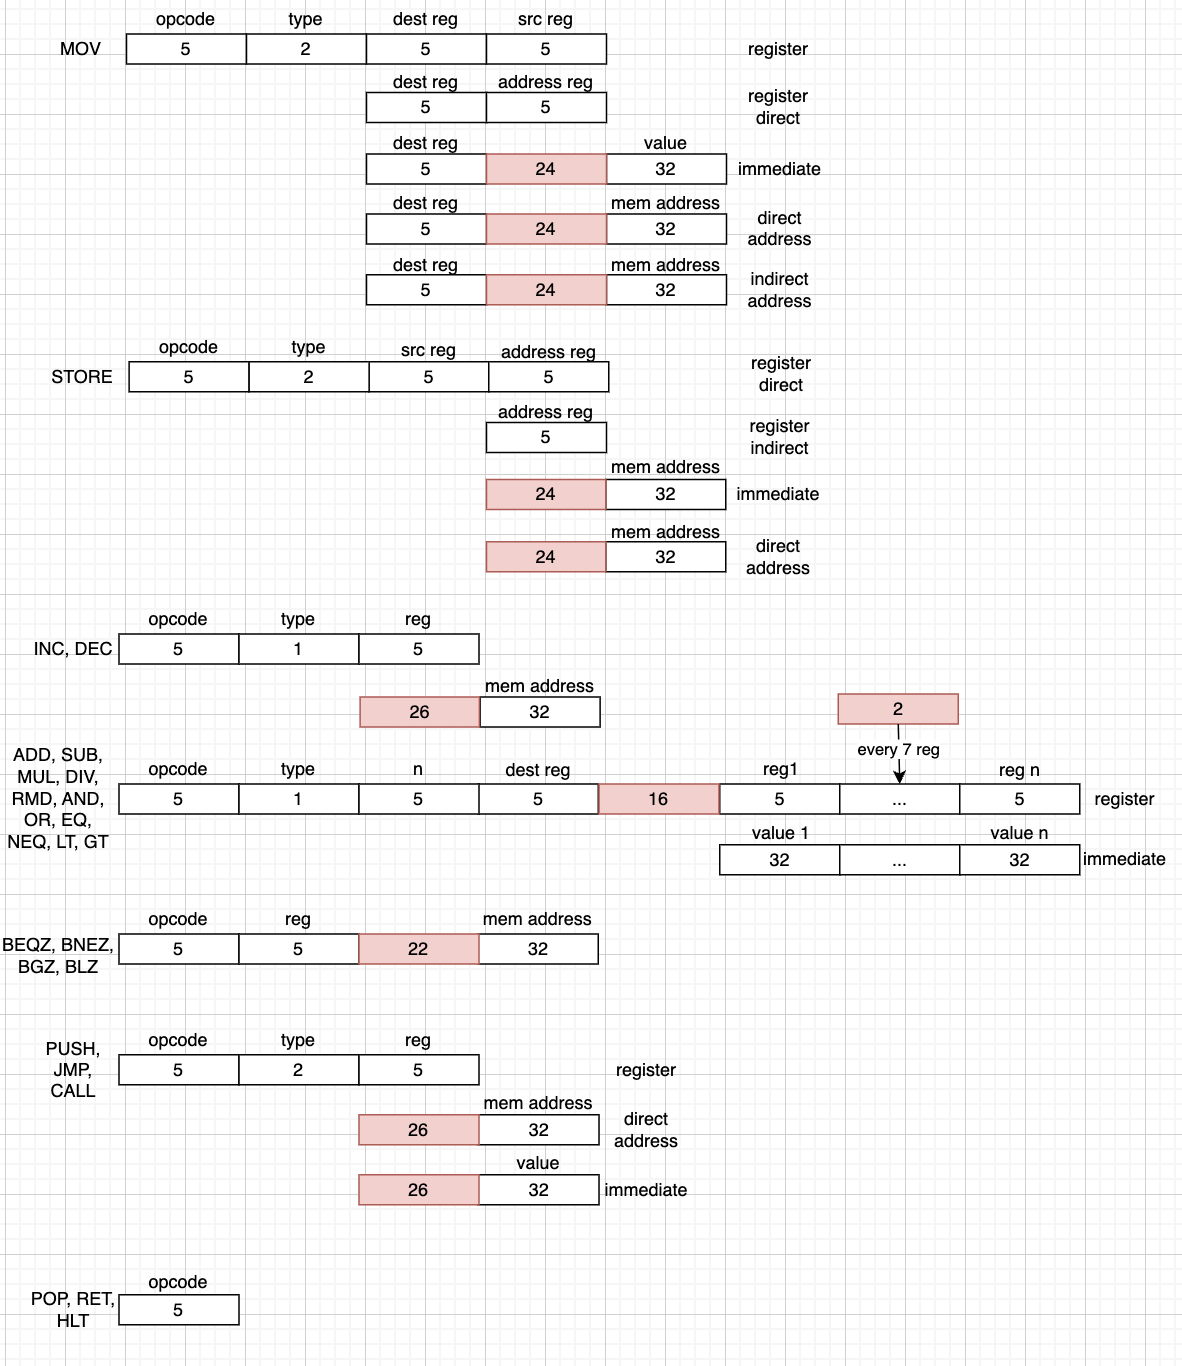
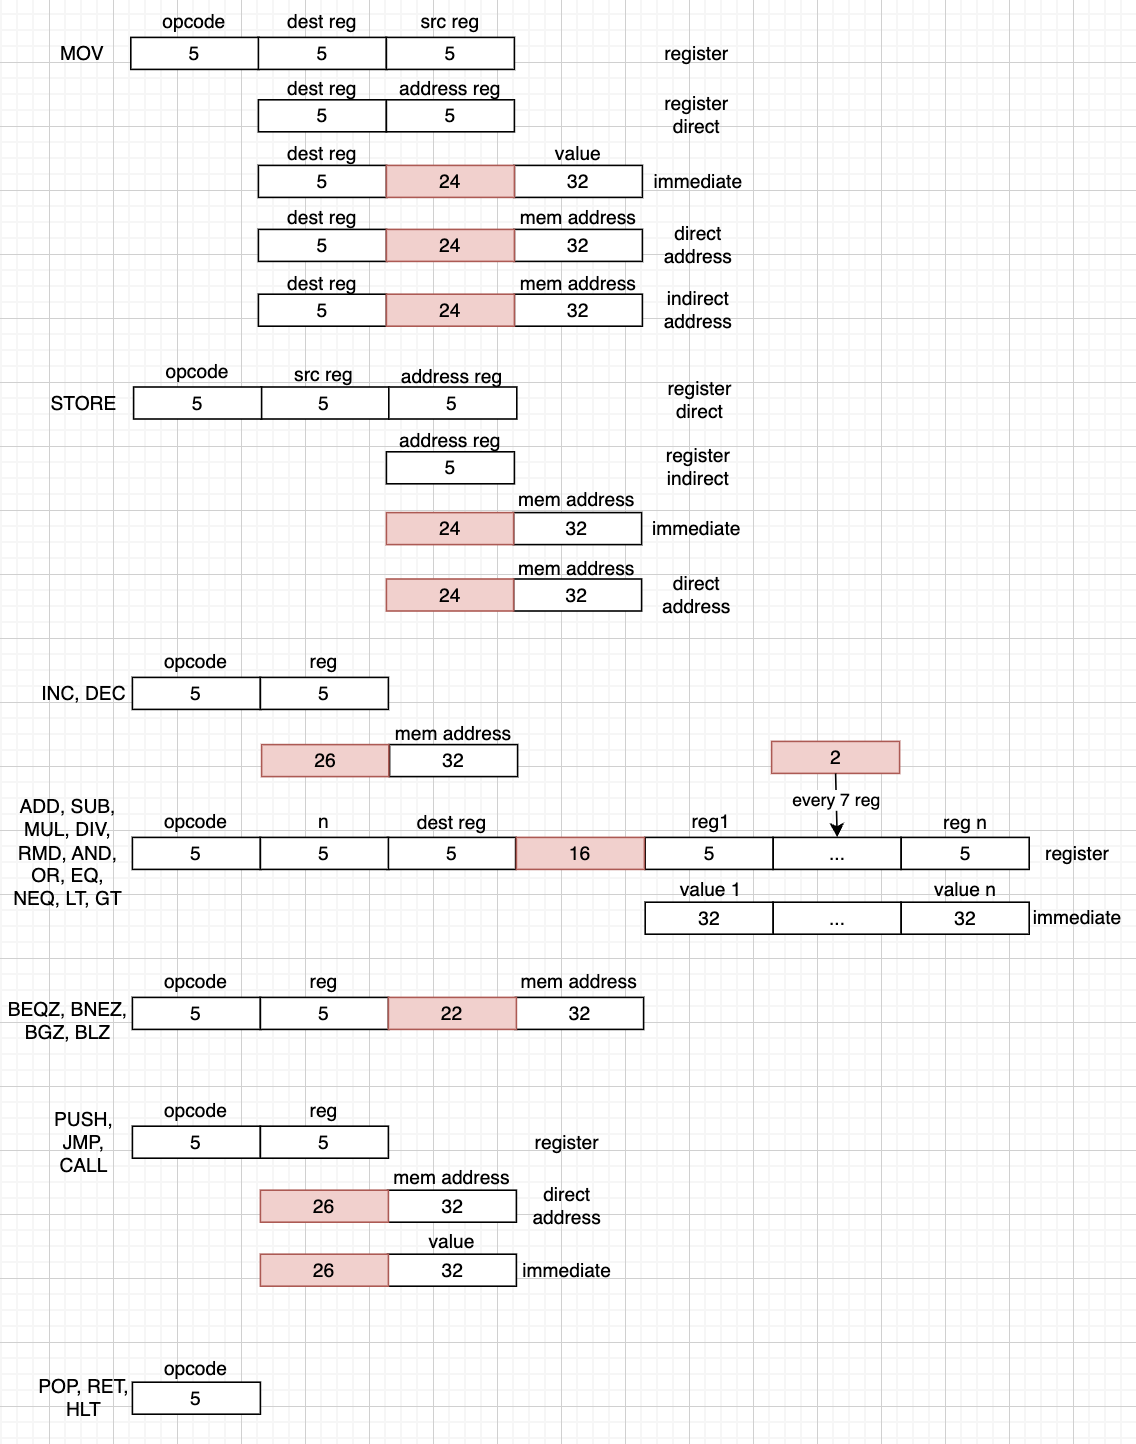
remove type

diff --git a/machine.py b/machine.py
@@ -43,8 +43,7 @@ class Sel:
     class MProgramCounter(Enum):
         OPCODE : int = 0
         ZERO : int = 1
-        TYPE : int = 2
-        N : int = 3
+        N : int = 2
         PLUS_1 : int = 4
     class LeftALU(Enum):
         REGISTER : int = 0
@@ -223,7 +222,6 @@ class ControlUnit:
             Signal.LATCH_MEMORY : self.datapath.latch_memory,
         }
 
-        # TODO remove TYPE, just use opcode for addressing
         self.mprogram : list[tuple[Signal, Sel]] = [
                 # instruction fetch (0)
                 (Signal.LATCH_ADDRESS_REGISTER, Sel.AddressRegister.CONTROL_UNIT),
@@ -232,7 +230,6 @@ class ControlUnit:
                 (Signal.LATCH_MPROGRAM_COUNTER, Sel.MProgramCounter.OPCODE),
 
                 # MOV register (4)(0)
-                (Signal.LATCH_MPROGRAM_COUNTER, Sel.MProgramCounter.TYPE), # jmp to type
                 (Signal.LATCH_LEFT_ALU, Sel.LeftALU.REGISTER), # src register
                 (Signal.LATCH_RIGHT_ALU, Sel.RightALU.ZERO),
                 (Signal.EXECUTE_ALU, ALU.Operations.ADD),
@@ -300,7 +297,6 @@ class ControlUnit:
                 (Signal.LATCH_MPROGRAM_COUNTER, Sel.MProgramCounter.ZERO),
 
                 # INC register (59)(0)
-                (Signal.LATCH_MPROGRAM_COUNTER, Sel.MProgramCounter.TYPE), # jmp to type
                 (Signal.LATCH_LEFT_ALU, Sel.LeftALU.REGISTER), # src register
                 (Signal.LATCH_RIGHT_ALU, Sel.RightALU.PLUS_1),
                 (Signal.EXECUTE_ALU, ALU.Operations.ADD),
@@ -321,7 +317,6 @@ class ControlUnit:
                 (Signal.LATCH_MPROGRAM_COUNTER, Sel.MProgramCounter.ZERO),
 
                 # DEC register (76)(0)
-                (Signal.LATCH_MPROGRAM_COUNTER, Sel.MProgramCounter.TYPE), # jmp to type
                 (Signal.LATCH_LEFT_ALU, Sel.LeftALU.REGISTER), # src register
                 (Signal.LATCH_RIGHT_ALU, Sel.RightALU.MINUS_1),
                 (Signal.EXECUTE_ALU, ALU.Operations.ADD),
@@ -342,8 +337,6 @@ class ControlUnit:
                 (Signal.LATCH_MPROGRAM_COUNTER, Sel.MProgramCounter.ZERO),
 
                 # STORE reg direct (103)(0)
-                (Signal.LATCH_MPROGRAM_COUNTER, Sel.MProgramCounter.TYPE), # jmp to type
-
                 (Signal.LATCH_RIGHT_ALU, Sel.RightALU.REGISTER), # src register
                 (Signal.LATCH_LEFT_ALU, Sel.LeftALU.ZERO),
                 (Signal.EXECUTE_ALU, ALU.Operations.ADD), 
@@ -420,8 +413,7 @@ class ControlUnit:
                 (Signal.LATCH_MPROGRAM_COUNTER, Sel.MProgramCounter.ZERO),
 
                 # ADD reg ()()
-                (Signal.LATCH_MPROGRAM_COUNTER, Sel.MProgramCounter.TYPE), # jmp to type
-                
+
 
                 # ADD mem ()()
                 (Signal.LATCH_PROGRAM_COUNTER, Sel.ProgramCounter.NEXT),
@@ -439,42 +431,58 @@ class ControlUnit:
         ]
 
     def decode(self, instruction: Instruction):
-        ALU_operations = (Opcode.ADD, Opcode.SUB, Opcode.MUL,
-              Opcode.DIV, Opcode.RMD, Opcode.AND,
-              Opcode.OR, Opcode.EQ, Opcode.NEQ,
-              Opcode.LT, Opcode.GT)
+        ALU_reg_operations = (Opcode.ADD_r, Opcode.SUB_r,
+                              Opcode.MUL_r, Opcode.DIV_r,
+                              Opcode.RMD_r, Opcode.AND_r,
+                              Opcode.OR_r, Opcode.EQ_r,
+                              Opcode.NEQ_r, Opcode.LT_r,
+                              Opcode.GT_r)
+        ALU_mem_operations = (Opcode.ADD_mem, Opcode.SUB_mem,
+                              Opcode.MUL_mem, Opcode.DIV_mem,
+                              Opcode.RMD_mem, Opcode.AND_mem,
+                              Opcode.OR_mem, Opcode.EQ_mem,
+                              Opcode.NEQ_mem, Opcode.LT_mem,
+                              Opcode.GT_mem)
+        MOV_codes = (Opcode.MOV_r2r, Opcode.MOV_rd2r,
+                     Opcode.MOV_imm2r, Opcode.MOV_da2r,
+                     Opcode.MOV_ia2r)
+        INC_DEC_codes = (Opcode.INC_mem, Opcode.INC_r,
+                         Opcode.DEC_mem, Opcode.DEC_r)
+        STORE_codes = (Opcode.MOV_r2rd, Opcode.MOV_r2ri,
+                       Opcode.MOV_r2imm, Opcode.MOV_r2da)
+        
         self.opcode : Opcode = instruction.opcode
         self.terms : list[Term] = instruction.terms
         print(self.opcode)
-        if self.opcode == Opcode.MOV:
-            if self.terms[0].value == 0 or self.terms[0].value == 1:
-                self.datapath.select_right_register(self.terms[1].value)
-                self.datapath.select_left_register(self.terms[2].value)
-            else: 
-                self.datapath.select_right_register(self.terms[1].value)
-
-        elif (self.opcode == Opcode.INC) or (self.opcode == Opcode.DEC):
-            if self.terms[0].value == 0:
-                self.datapath.select_right_register(self.terms[1].value)
+        if self.opcode in MOV_codes:
+            if self.opcode in (Opcode.MOV_r2r, Opcode.MOV_rd2r):
+                self.datapath.select_right_register(self.terms[0].value)
                 self.datapath.select_left_register(self.terms[1].value)
+            else: 
+                self.datapath.select_right_register(self.terms[0].value)
 
-        elif (self.opcode == Opcode.STORE):
-            if self.terms[0].value == 0 or self.terms[0].value == 1:
-                self.datapath.select_right_register(self.terms[1].value)
-                self.datapath.select_left_register(self.terms[2].value)
+        elif self.opcode in INC_DEC_codes:
+            if self.opcode in (Opcode.INC_r, Opcode.DEC_r):
+                self.datapath.select_right_register(self.terms[0].value)
+                self.datapath.select_left_register(self.terms[0].value)
+
+        elif self.opcode in STORE_codes:
+            if self.opcode in (Opcode.MOV_r2rd, Opcode.MOV_r2ri):
+                self.datapath.select_right_register(self.terms[0].value)
+                self.datapath.select_left_register(self.terms[1].value)
             else:
-                self.datapath.select_right_register(self.terms[1].value)
+                self.datapath.select_right_register(self.terms[0].value)
 
-        elif self.opcode in ALU_operations:
-            self.n = self.terms[1].value
-            self.datapath.select_right_register(self.terms[2].value)
+        elif self.opcode in ALU_reg_operations or self.opcode in ALU_mem_operations:
+            self.n = self.terms[0].value
+            self.datapath.select_right_register(self.terms[1].value)
 
-        elif self.opcode in (Opcode.BEQZ, Opcode.BNEZ, Opcode.BGZ, Opcode.BLZ):
-            self.datapath.select_left_register(self.terms[1])
+        # elif self.opcode in (Opcode.BEQZ, Opcode.BNEZ, Opcode.BGZ, Opcode.BLZ):
+        #     self.datapath.select_left_register(self.terms[0])
 
-        elif self.opcode in (Opcode.PUSH, Opcode.JMP, Opcode.CALL):
-            if self.terms[1].value == 0:
-                self.datapath.select_left_register(self.terms[2].value)
+        # elif self.opcode in (Opcode.PUSH, Opcode.JMP, Opcode.CALL):
+        #     if self.terms[0].value == 0:
+        #         self.datapath.select_left_register(self.terms[0].value)
 
         else:
             raise RuntimeError()
@@ -497,8 +505,6 @@ class ControlUnit:
             self.mprogram_counter += 1
         if sel == Sel.MProgramCounter.OPCODE:
             self.mprogram_counter = self.opcode.value
-        if sel == Sel.MProgramCounter.TYPE:
-            self.mprogram_counter += self.terms[0].value
         if self == Sel.MProgramCounter.N:
             if self.n == 0:
                 self.mprogram_counter += 1
@@ -512,7 +518,7 @@ class ControlUnit:
         assert isinstance(sel, Sel.N), "selector must be N selector"
 
         if sel == Sel.N.DECODER:
-            self.n = self.terms[1]
+            self.n = self.terms[0]
         if sel == Sel.N.MINUS_1:
             self.n -= 1
         if sel == Sel.N.ZERO:

diff --git a/isa.py b/isa.py
@@ -3,21 +3,41 @@ from dataclasses import dataclass
 from typing import Any
 
 class Opcode(Enum):
-    MOV : int = 4
-    INC : int = 59
-    DEC : int = 76
-    STORE : int = 100
-    ADD : int = 3
-    SUB : int = 4
-    MUL : int = 5
-    DIV : int = 6
-    RMD : int = 7
-    AND : int = 8
-    OR : int = 9
-    EQ : int = 10
-    NEQ : int = 11
-    LT : int = 12
-    GT : int = 13
+    MOV_r2r : int = 4
+    MOV_rd2r : int = 11
+    MOV_imm2r : int = 21
+    MOV_da2r : int = 27
+    MOV_ia2r : int = 41
+    INC_r : int = 59
+    INC_mem : int = 66
+    DEC_r : int = 76
+    DEC_mem : int = 93
+    MOV_r2rd : int = 103
+    MOV_r2ri : int = 115
+    MOV_r2imm : int = 131
+    MOV_r2da : int = 142
+    ADD_r : int = 1
+    ADD_mem : int = 2
+    SUB_r : int = 3
+    SUB_mem : int = 4
+    MUL_r : int = 5
+    MUL_mem : int = 6
+    DIV_r : int = 6
+    DIV_mem : int = 6
+    RMD_r : int = 7
+    RMD_mem : int = 7
+    AND_r : int = 8
+    AND_mem : int = 8
+    OR_r : int = 9
+    OR_mem : int = 9
+    EQ_r : int = 10
+    EQ_mem : int = 10
+    NEQ_r : int = 11
+    NEQ_mem : int = 11
+    LT_r : int = 12
+    LT_mem : int = 12
+    GT_r : int = 13
+    GT_mem : int = 13
     BEQZ : int = 14
     BNEZ : int = 15
     BGZ : int = 16
